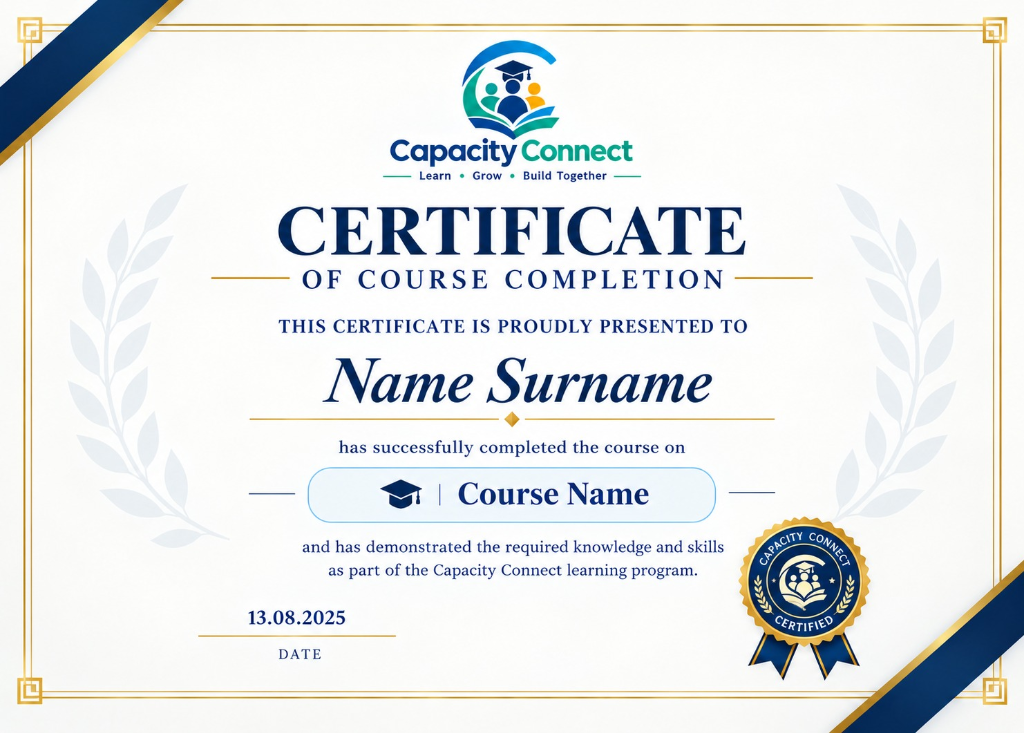
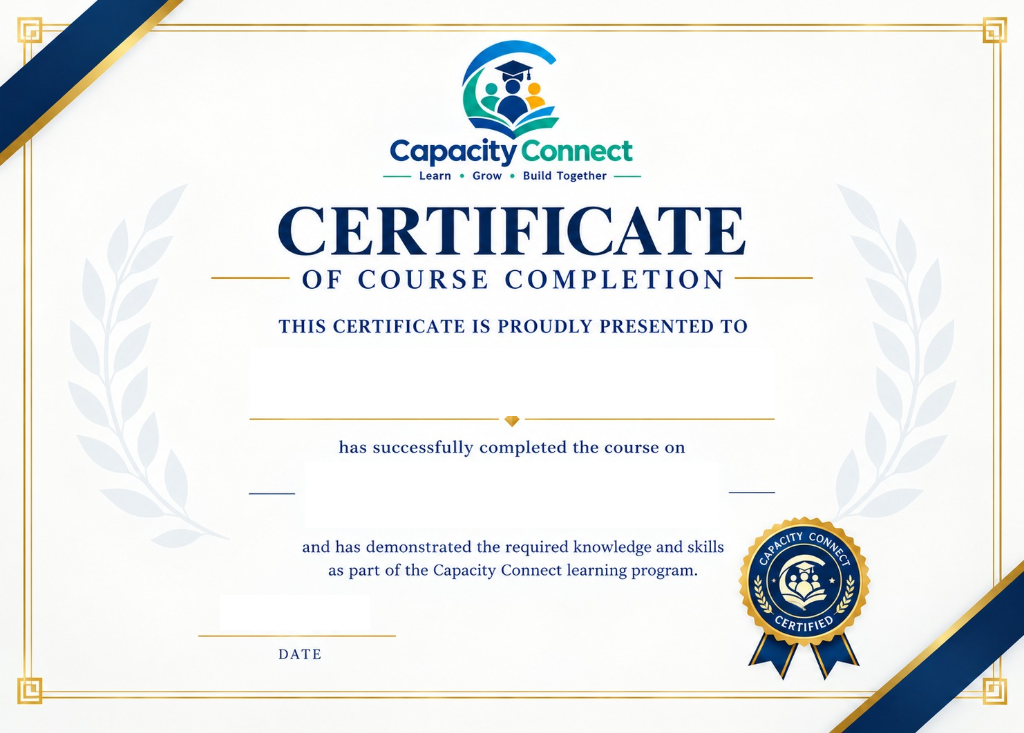
fix(certificate): clean template placeholders and align student name, course title, and date to exact pixel coordinates

Changed region(s): [[0.3125, 0.4802, 0.7188, 0.5703], [0.375, 0.6303, 0.6562, 0.7203], [0.25, 0.8104, 0.3438, 0.8704]]

diff --git a/frontend/src/capacity_connect/common/CourseCertificateModal.tsx b/frontend/src/capacity_connect/common/CourseCertificateModal.tsx
@@ -78,10 +78,10 @@ export const CourseCertificateModal: React.FC<CourseCertificateModalProps> = ({
           <div
             id="certificate-print-area"
             ref={certificateRef}
-            className="relative w-full aspect-[1.414/1] bg-white rounded-xl shadow-xl overflow-hidden select-none print:shadow-none print:rounded-none print:w-full print:h-auto"
+            className="relative w-full aspect-[1024/733] bg-white rounded-xl shadow-xl overflow-hidden select-none print:shadow-none print:rounded-none print:w-full print:h-auto"
             style={{ minHeight: '380px' }}
           >
-            {/* The exact background template image */}
+            {/* Pristine blank background template image */}
             <img
               src="/certificate-template.png"
               alt="Capacity Connect Certificate Template"
@@ -89,34 +89,34 @@ export const CourseCertificateModal: React.FC<CourseCertificateModalProps> = ({
             />
 
             {/* DYNAMIC OVERLAY 1: STUDENT NAME */}
-            {/* Seamless white mask covering 'Name Surname' completely between the laurel wreaths */}
+            {/* Perfectly centered between 'THIS CERTIFICATE IS PROUDLY PRESENTED TO' and the gold line with diamond */}
             <div
-              className="absolute left-[16%] right-[16%] flex items-center justify-center bg-white pointer-events-none"
-              style={{ top: '44.8%', height: '9.6%' }}
+              className="absolute left-[15%] right-[15%] flex items-center justify-center pointer-events-none"
+              style={{ top: '47.5%', height: '9.5%' }}
             >
-              <span className="font-serif italic font-bold text-2xl sm:text-4xl md:text-5xl text-[#0b1b3d] tracking-normal whitespace-nowrap">
+              <span className="font-serif italic font-bold text-2xl sm:text-4xl md:text-5xl text-[#0b1b3d] tracking-normal whitespace-nowrap select-text">
                 {studentName}
               </span>
             </div>
 
             {/* DYNAMIC OVERLAY 2: COURSE NAME */}
-            {/* Perfectly synced printed text centered directly between the decorative gold line segments */}
+            {/* Perfectly aligned directly between the left & right horizontal line guides */}
             <div
-              className="absolute left-[16%] right-[16%] flex items-center justify-center bg-white pointer-events-none"
-              style={{ top: '61.6%', height: '5.8%' }}
+              className="absolute left-[18%] right-[18%] flex items-center justify-center pointer-events-none"
+              style={{ top: '64.5%', height: '7.5%' }}
             >
-              <span className="font-serif font-bold text-sm sm:text-lg md:text-xl text-[#0b1b3d] tracking-wide uppercase px-4 whitespace-nowrap text-center">
+              <span className="font-serif font-bold text-sm sm:text-base md:text-xl text-[#0b1b3d] tracking-wider uppercase px-4 whitespace-nowrap text-center select-text">
                 {courseTitle}
               </span>
             </div>
 
             {/* DYNAMIC OVERLAY 3: DATE */}
-            {/* Cleanly positioned date right above 'DATE' with no trailing semicolon */}
+            {/* Perfectly centered directly above the gold date line and 'DATE' */}
             <div
-              className="absolute flex items-center justify-center bg-white pointer-events-none"
-              style={{ left: '18%', top: '78.5%', width: '18%', height: '3.6%' }}
+              className="absolute flex items-center justify-center pointer-events-none text-center"
+              style={{ left: '19.3%', width: '19.4%', top: '80.0%', height: '5.8%' }}
             >
-              <span className="font-serif font-bold text-xs sm:text-sm md:text-base text-[#0b1b3d] tracking-wider whitespace-nowrap">
+              <span className="font-serif font-bold text-xs sm:text-sm md:text-base text-[#0b1b3d] tracking-wider whitespace-nowrap select-text">
                 {formattedDate}
               </span>
             </div>
